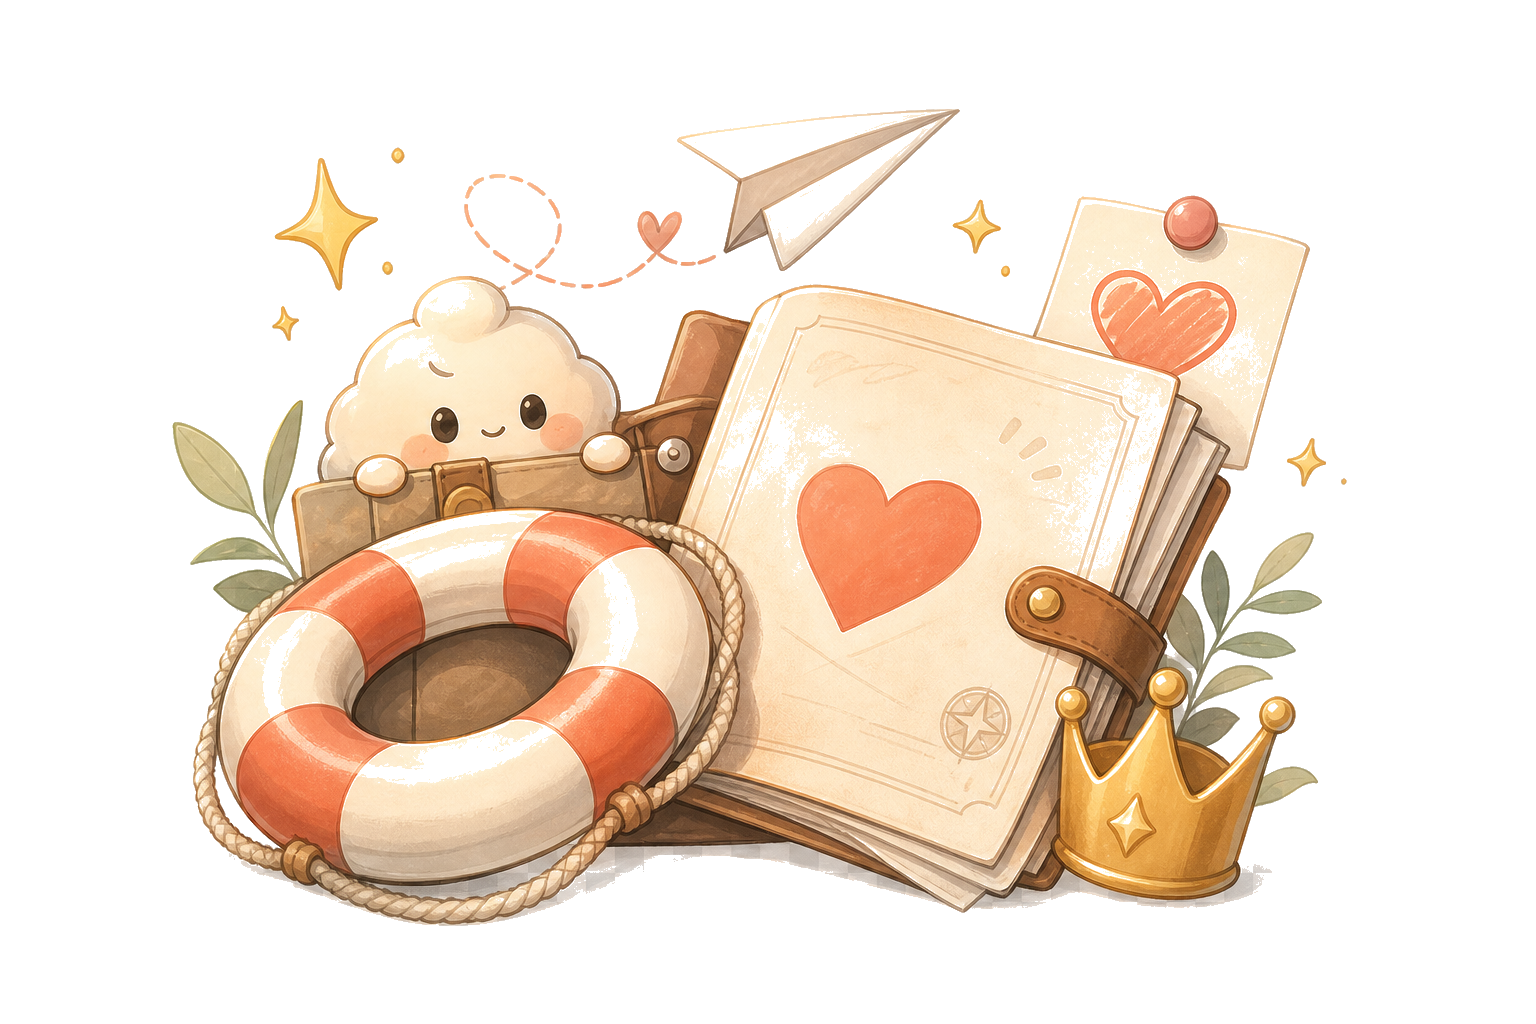
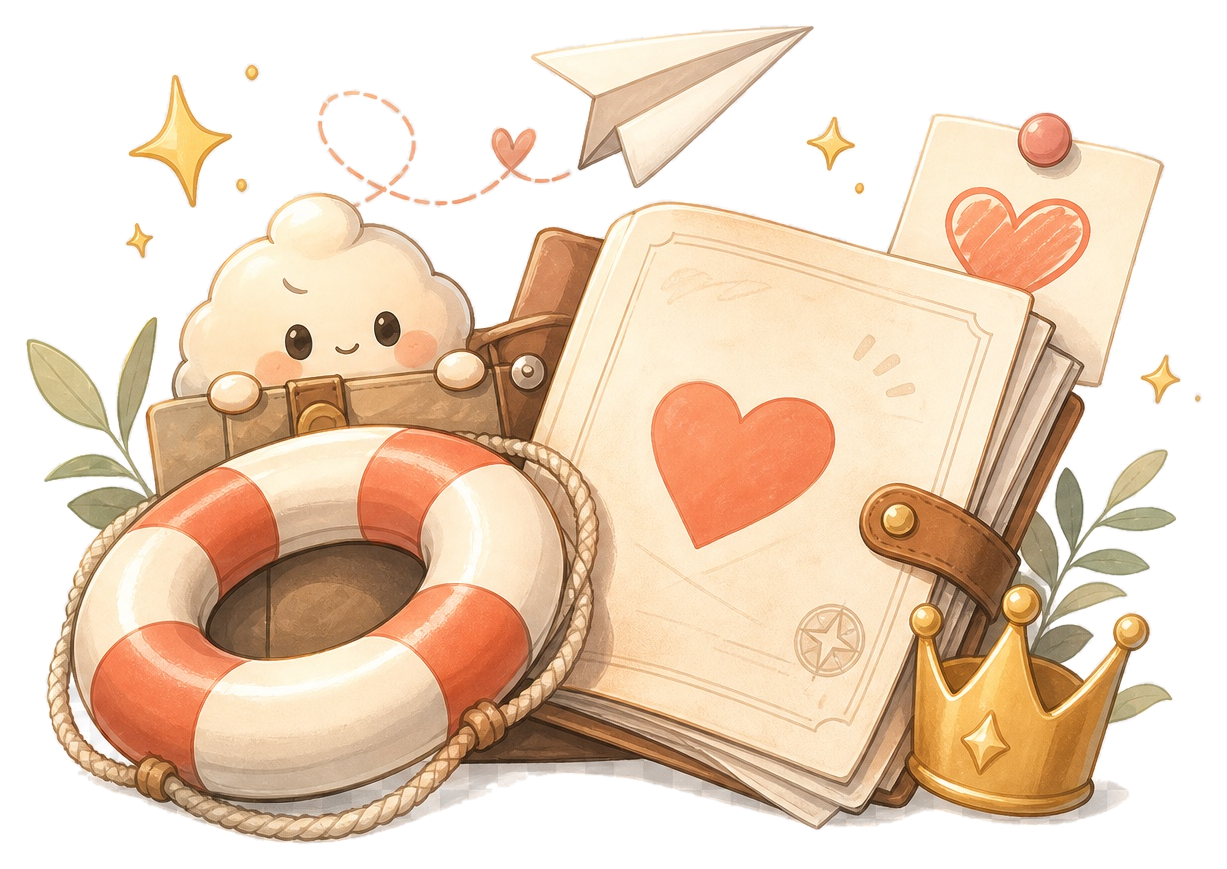
style: adopt provided transparent illustrations

diff --git a/src/App.jsx b/src/App.jsx
@@ -7,6 +7,9 @@ const illustrationAssets = {
   question: '/assets/love-question-accent.png',
   feedback: '/assets/love-feedback-peek.png',
   result: '/assets/love-result-accent.png',
+  phoneReply: '/assets/love-phone-reply.png',
+  detective: '/assets/love-detective.png',
+  survivalGuide: '/assets/love-survival-guide.png',
 };
 
 function cx(...parts) {
@@ -151,10 +154,17 @@ function QuestionAccent() {
   return (
     <div className="pointer-events-none absolute right-3 top-3 h-28 w-28 opacity-95">
       <img
+        src={illustrationAssets.phoneReply}
+        alt=""
+        aria-hidden="true"
+        className="absolute inset-0 h-full w-full select-none object-contain"
+        draggable="false"
+      />
+      <img
         src={illustrationAssets.question}
         alt=""
         aria-hidden="true"
-        className="h-full w-full select-none object-contain"
+        className="absolute -left-1 bottom-[-2px] h-11 w-11 select-none object-contain rotate-[-10deg] drop-shadow-[0_8px_18px_rgba(91,72,56,0.12)]"
         draggable="false"
       />
     </div>
@@ -165,10 +175,17 @@ function FeedbackPeek() {
   return (
     <div className="pointer-events-none absolute right-4 top-4 h-24 w-24 opacity-95">
       <img
+        src={illustrationAssets.detective}
+        alt=""
+        aria-hidden="true"
+        className="absolute inset-0 h-full w-full select-none object-contain"
+        draggable="false"
+      />
+      <img
         src={illustrationAssets.feedback}
         alt=""
         aria-hidden="true"
-        className="h-full w-full select-none object-contain"
+        className="absolute -left-1 bottom-[-6px] h-10 w-10 select-none object-contain rotate-[-8deg] drop-shadow-[0_8px_18px_rgba(91,72,56,0.12)]"
         draggable="false"
       />
     </div>
@@ -355,21 +372,31 @@ function App() {
                 className="space-y-4"
               >
                 <SectionCard>
-                  <div className="mb-4 flex items-center justify-between">
-                    <h2 className="text-xl font-bold">求生规则</h2>
-                    <button
-                      type="button"
-                      onClick={hideRules}
-                      className="rounded-full bg-white/80 px-3 py-1 text-sm text-[var(--muted)]"
-                    >
-                      关闭
-                    </button>
+                  <div className="mb-4 flex items-start justify-between gap-4">
+                    <div className="space-y-1">
+                      <h2 className="text-xl font-bold">求生规则</h2>
+                      <p className="text-sm text-[var(--muted)]">一眼看懂，直接开玩。</p>
+                    </div>
+                    <img
+                      src={illustrationAssets.survivalGuide}
+                      alt=""
+                      aria-hidden="true"
+                      className="h-20 w-20 shrink-0 select-none object-contain"
+                      draggable="false"
+                    />
                   </div>
                   <div className="space-y-3 text-[15px] leading-7 text-[var(--text)]">
                     <p>每局随机 10 道恋爱高危场景题。</p>
                     <p>每题有 3 种求生姿势：稳住、拆题、整活。</p>
                     <p>最后系统会根据你的选择，生成一份恋爱求生报告。</p>
                   </div>
+                  <button
+                    type="button"
+                    onClick={hideRules}
+                    className="mt-4 rounded-full bg-white/80 px-3 py-1 text-sm text-[var(--muted)]"
+                  >
+                    关闭
+                  </button>
                 </SectionCard>
                 <button
                   type="button"

diff --git a/progress.md b/progress.md
@@ -5,3 +5,8 @@ Original prompt: 好好参考一下这个样式，不要糊弄
 - Direction updated: use generated illustration assets for the hero and corner accents, then make them transparent so they sit naturally on the paper cards.
 - The old sticker sheet asset is no longer used; the new art is the current visual source of truth.
 - Need to keep verifying in the local browser after each asset pass so we do not reintroduce pasted-looking blocks.
+- Updated again with the user-provided transparent cutouts from Desktop:
+  - home uses the refined hero art
+  - question and feedback now use layered character accents
+  - rules modal uses the survival guide illustration
+- Verified the latest screenshots on the local app; the checkerboard/patchy cutout problem is gone in the app view.
